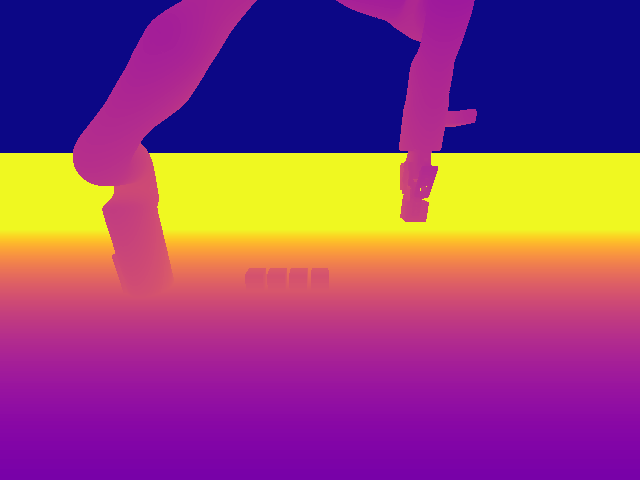
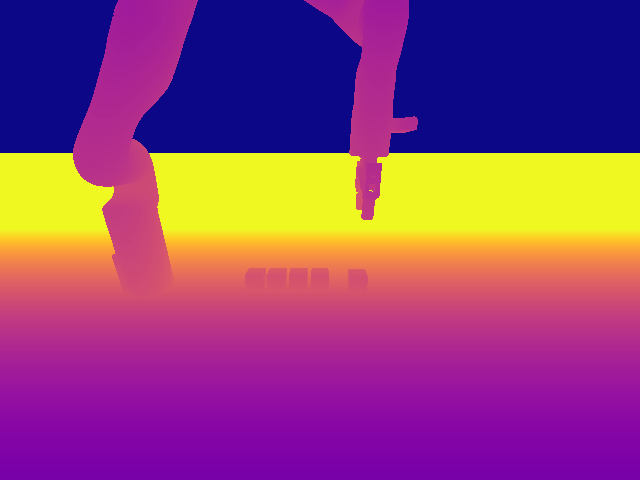
waypoints for smoother IK

Changed region(s): [[0.4688, 0.0, 0.75, 0.4688], [0.125, 0.0, 0.4062, 0.3125], [0.5312, 0.5625, 0.5938, 0.5938]]

diff --git a/skillet/controllers/waypoints.py b/skillet/controllers/waypoints.py
@@ -1,0 +1,134 @@
+from dataclasses import dataclass
+from typing import Literal
+
+import torch
+
+from skillet.core.math import euler_xyz_from_quat, quat_error_magnitude, quat_from_euler_xyz
+
+
+@dataclass
+class WaypointCfg:
+    """Configuration class for trajectory waypoints."""
+
+    max_points: int | None = 20
+    """Maximum number of waypoints in a trajectory."""
+    max_dist: float | None = 0.15
+    """Maximum distance between waypoints in a trajectory."""
+    max_rad: float | None = 0.75
+    """Maximum radian error between waypoitns in a trajectory."""
+    device: str = "cuda"
+    """Torch device to use."""
+    return_type: Literal["euler", "quat"] = "euler"
+
+    def build(self):
+        return TrajectoryWaypoints(self)
+
+
+class TrajectoryWaypoints:
+    """Controller for setting intermediate waypoints between current and goal poses.
+
+    Goal of obtaining better performing IK.
+    """
+
+    def __init__(self, cfg: WaypointCfg) -> None:
+        self.cfg = cfg
+
+    def get_next_point(self, start_pose: torch.Tensor, goal_pose: torch.Tensor) -> torch.Tensor:
+        """Get the next waypoint in the trajectory."""
+        # Handle either Quaternion (ndim=7) or euler angles (ndim=6)
+        if start_pose.shape[1] == 6:
+            start_quat = quat_from_euler_xyz(start_pose[:, 3], start_pose[:, 4], start_pose[:, 5])
+            start_pose = torch.cat((start_pose[:, :3], start_quat), dim=1)
+        if goal_pose.shape[1] == 6:
+            goal_quat = quat_from_euler_xyz(goal_pose[:, 3], goal_pose[:, 4], goal_pose[:, 5])
+            goal_pose = torch.cat((goal_pose[:, :3], goal_quat), dim=1)
+
+        way_pose = self._interpolate_pose(start_pose[:, :3], start_pose[:, 3:7], goal_pose[:, :3], goal_pose[:, 3:7])
+        if self.cfg.return_type == "euler":
+            r, p, y = euler_xyz_from_quat(way_pose[:, 1, 3:7])
+            return torch.cat((way_pose[:, 1, :3], torch.stack((r, p, y), dim=-1)), dim=-1)
+        return way_pose[:, 1]
+
+    def _interpolate_pose(
+        self,
+        start_pos: torch.Tensor,
+        start_quat: torch.Tensor,
+        goal_pos: torch.Tensor,
+        goal_quat: torch.Tensor,
+    ) -> torch.Tensor:
+        """Return (positions, quaternions) each of shape (..., n_waypoints,7)."""
+        rot_err = quat_error_magnitude(start_quat, goal_quat)
+        pos_err = torch.linalg.vector_norm(start_pos - goal_pos, dim=-1)
+
+        max_waypoints = torch.max(torch.ceil(pos_err / self.cfg.max_dist), torch.ceil(rot_err / self.cfg.max_rad)) + 1
+        num_waypoints = torch.max(
+            torch.minimum(max_waypoints, torch.as_tensor(self.cfg.max_points, device=self.cfg.device))
+        ).to(torch.int32)
+        t = torch.linspace(
+            0,
+            1,
+            num_waypoints,
+            device=self.cfg.device,
+        )
+
+        t_shape = (1,) * (start_pos.dim() - 1) + (num_waypoints,)
+        t = t.reshape(t_shape).repeat(start_pos.shape[0], 1)
+
+        p0 = start_pos.unsqueeze(-2)
+        p1 = goal_pos.unsqueeze(-2)
+        q0 = start_quat.unsqueeze(-2)
+        q1 = goal_quat.unsqueeze(-2)
+
+        positions = self._lerp_poses(p0, p1, t.unsqueeze(-1))
+        quaternions = self._slerp_quats(q0, q1, t.unsqueeze(-1))
+
+        return torch.cat((positions, quaternions), dim=-1).squeeze(-2)
+
+    def _lerp_poses(self, p0: torch.Tensor, p1: torch.Tensor, t: torch.Tensor) -> torch.Tensor:
+        """Linear interpolation between two positiontorch.tensors."""
+        t = t.unsqueeze(-1) if t.shape != p0.shape else t
+        return (1 - t) * p0 + t * p1
+
+    def _slerp_quats(self, q0: torch.Tensor, q1: torch.Tensor, t: torch.Tensor) -> torch.Tensor:
+        """Spherical linear interpolation between two quaternions.
+
+        Handles quaternion double-cover (q == -q) and the sin(theta) -> 0 fallback.
+
+        q0, q1: (..., 4) in [x, y, z, w]
+        t:      (..., 1) or (...,) scalar weights in [0, 1]
+        returns: (..., 4) normalized quaternion
+        """
+        t = t.unsqueeze(-1) if t.shape != q0.shape else t
+
+        q0 = q0 / q0.norm(dim=-1, keepdim=True)
+        q1 = q1 / q1.norm(dim=-1, keepdim=True)
+
+        dot = (q0 * q1).sum(dim=-1, keepdim=True)
+        q1 = torch.where(dot < 0, -q1, q1)
+        dot = dot.abs()
+
+        dot = dot.clamp(-1.0, 1.0)
+        theta = torch.acos(dot)
+
+        sin_theta = torch.sin(theta)
+        safe = sin_theta.abs() > 1e-6
+
+        coeff0 = torch.where(safe, torch.sin((1 - t) * theta) / sin_theta, 1 - t)
+        coeff1 = torch.where(safe, torch.sin(t * theta) / sin_theta, t)
+
+        q = coeff0 * q0 + coeff1 * q1
+        return q / q.norm(dim=-1, keepdim=True)
+
+
+def main():
+    waypoint_cfg = WaypointCfg(max_points=10, max_dist=0.05, max_rad=1)
+    waypoint_maker = waypoint_cfg.build()
+
+    start = torch.as_tensor([[0.0, 0, 0, 1, 0, 0, 0]], device="cuda", dtype=torch.float32)
+    end = torch.as_tensor([[0.0, 0, 1, 1, 0, 0, 0]], device="cuda", dtype=torch.float32)
+
+    waypoint_maker.get_next_point(start, end)
+
+
+if __name__ == "__main__":
+    main()

diff --git a/skillet_tasks/mj_tasks/gen3/mj_gen3.py b/skillet_tasks/mj_tasks/gen3/mj_gen3.py
@@ -12,6 +12,7 @@ from mjlab.sim import MujocoCfg, SimulationCfg
 from mjlab.sim.sim import Simulation
 from mjlab.terrains import TerrainEntityCfg
 
+from skillet.controllers.waypoints import WaypointCfg
 from skillet.core.spaces import ActionSpec
 from skillet.envs.mujoco import MjDirectRlEnv
 from skillet.envs.mujoco.controllers import MjDifferentialIk
@@ -96,6 +97,7 @@ class MjGen3Env(MjDirectRlEnv):
         self.tcp_offset = torch.as_tensor(self.cfg.tcp_offset, device=self.device).unsqueeze(0).repeat(self.num_envs, 1)
 
         self._diff_ik = MjDifferentialIk(self)
+        self._waypoints = WaypointCfg().build()
 
     def _setup_scene(self):
 
@@ -152,9 +154,11 @@ class MjGen3Env(MjDirectRlEnv):
         self._tabletop_camera = self.scene.sensors["tabletop_camera"]
 
     def _pre_physics_step(self, actions: torch.Tensor, action_spec: ActionSpec = None):
-        if action_spec.name == "tcp_cart" or action_spec.name == "twist_tcp":
+        if action_spec.name == "tcp_cart":
+            # Obtain waypoints that should be followed by the arm
+            next_action = self._waypoints.get_next_point(self._robot_tool_pose_b, actions[:, :6])
             arm_targets = self._joint_positions[:, self.cfg.joint_ids[:-1]] + self._diff_ik.compute_joint_vel(
-                actions[:, :6], smoothing=False
+                next_action, smoothing=False
             )
             targets = torch.cat((arm_targets, actions[:, -1:]), dim=1)
             self.actions = targets.clone()
